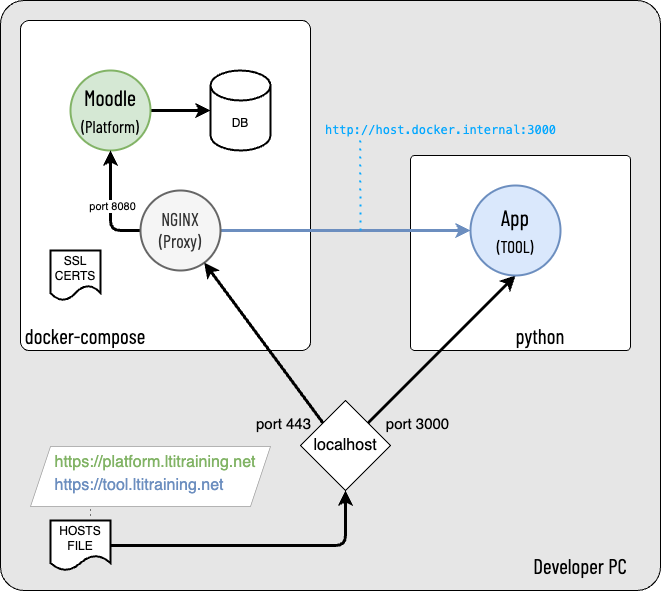
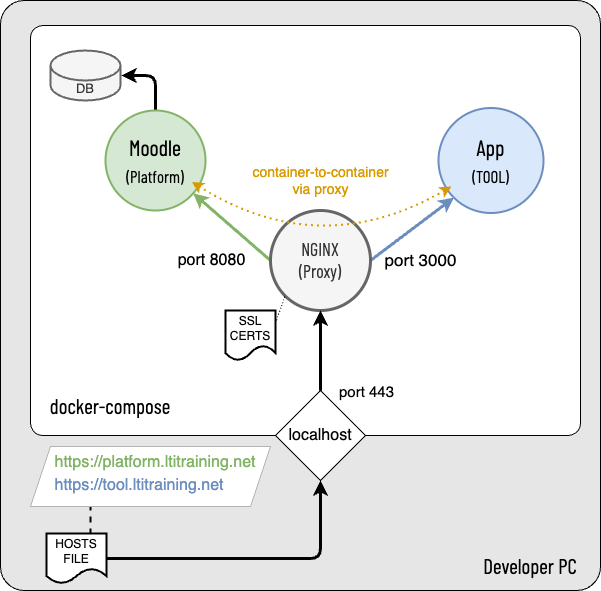
simplified setup - stripped out all tje python dependencies and moved it to docker.

diff --git a/docs/activity1.md b/docs/activity1.md
@@ -13,6 +13,8 @@ By the end of this activity, you will have cloned the workshop's git repository 
 - Docker and Docker Compose installed on your machine.
 - Access to modify the local `/etc/hosts` file (administrator privileges may be required).
 
+See the [Guide for setting up the prerequisites](activity0.md) if you need further assistance.
+
 ---
 
 ### **Steps to Follow:**
@@ -35,34 +37,7 @@ Once the repository is cloned, navigate to the `environment/` directory where th
 cd environment
 ```
 
-#### 3. **Check the Docker Compose File**
-
-In this step, take a look at the `docker-compose.yml` file, which defines the services for running Moodle, the proxy server, and the database. Open it in your favorite text editor (e.g., `nano`, `vim`, or a code editor like VS Code).
-
-```
-Open docker-compose.yml in your Code Editor
-```
-
-Ensure that the file includes services for:
-- **Moodle** (Moodle Docker image)
-- **MariaDB** (Database service)
-- **Nginx** (Proxy server with SSL certificates)
-
-You should also see the environment variables set for Moodle and MariaDB in this file.
-
-**Note:**  This is just a local development project and is not production-ready.  Please do not use this in production.
-
-#### 4. **Verify the Nginx Configuration**
-
-Open and review the `nginx.conf` file to confirm that it correctly handles SSL for `platform.ltitraining.net` and `tool.ltitraining.net`.
-
-```
-Review nginx.conf in your code editor
-```
-
-This file includes SSL configurations for the Moodle platform and the LTI tool, routing traffic via the reverse proxy.
-
-#### 5. **Update the Local Hosts File**
+#### 3. **Update the Local Hosts File**
 
 In this setup, we will use 2 real domains with real (browser-trusted) SSL certificates.  We will configure the routing on your PC to route these domains locally within your machine.  This allows us to focus on LTI development without the complexities of browser security getting in the way.
 
@@ -96,42 +71,23 @@ To ensure that the domains `platform.ltitraining.net` and `tool.ltitraining.net`
 
 This step ensures that your browser correctly resolves these domains to your local machine when you access them.
 
-#### 6. **Start the Docker Environment**
+#### 4. **Start the Docker Environment**
 
 Once you’ve reviewed the configurations, start the Docker containers using Docker Compose. This will spin up Moodle, MariaDB, and Nginx services.
 
 ```bash
-docker-compose up -d
+docker-compose up --build
 ```
 
 This command will:
 - Build and start all the services defined in the `docker-compose.yml` file.
-- Run the services in detached mode (`-d`), so they run in the background.
+- Configures and runs the services 
+- Please note:  This may take a few mins to complete the first time.
 
-#### 7. **Check the Running Containers**
 
-To verify that everything is running correctly, check the status of the Docker containers.
+#### 5. **Run through the Checklist**
 
-```bash
-docker ps
-```
-
-You should see the Moodle, MariaDB, and Nginx services running.
-
-#### 8. **Access Moodle**
-
-Open your browser and access Moodle using the following URL:
-
-```
-https://platform.ltitraining.net
-```
-
-If everything is set up correctly, you should see the Moodle login page or the platform's homepage.
-
-You should be able to login using the default username and password;
-
-- user:  user
-- password: bitnami
+To verify that everything is running correctly, complete the checks the [Checklist](checklist.md)
 
 ---
 
@@ -151,6 +107,13 @@ You should be able to login using the default username and password;
 
 ---
 
+### **Questions &  Common Tasks:**
+
+To understand how to start, stop, reset, clean up,  details are outlined in the [Common Tasks Document](common_tasks.md)
+
+---
+
 ### **Activity Summary:**
 You have now cloned the repository, updated your hosts file, started the Docker environment, and accessed Moodle via the `platform.ltitraining.net` domain. You are ready to move on to the next activity, where you will configure the Moodle LTI tool and begin developing.
+
 

diff --git a/docs/checklist.md b/docs/checklist.md
@@ -20,18 +20,31 @@ docker-compose ps
 You should see the status as `Up` for the Moodle, MariaDB, and Nginx containers. For example:
 
 ```bash
-    Name                Command          State             Ports
----------------------------------------------------------------------
-nginx-proxy   /docker-entrypoint.sh ngin ...   Up      0.0.0.0:443->443/tcp
-mariadb       /opt/bitnami/scripts/mari ...   Up      3306/tcp
-platform.dev  /opt/bitnami/scripts/mood ...   Up      8080/tcp
+CONTAINER ID   IMAGE                  COMMAND                  CREATED       STATUS       PORTS             
+a9e9b803832b   environment-tool       "/usr/src/app/entryp…"   5 hours ago   Up 5 hours   0.0.0.0:3000->...
+ee39addd9116   nginx:alpine           "/docker-entrypoint.…"   7 hours ago   Up 7 hours   80/tcp, 0.0.0.0:443->...
+f6f32f1edc97   bitnami/moodle:4.5.0   "/opt/bitnami/script…"   7 hours ago   Up 7 hours   0.0.0.0:8080->...
+ec1c0138c758   bitnami/mariadb:10.6   "/opt/bitnami/script…"   7 hours ago   Up 7 hours   3306...
 ```
 
 If the containers are not running, use `docker-compose up` to start them.
 
 ---
+### **Test 2: Access Test Flask Application**
 
-### **Test 2: Access Moodle**
+1. Open your browser.
+2. Navigate to the following URL:
+
+```
+https://tool.ltitraining.net
+```
+
+You should see a success message from the Flask Application page. If the page doesn’t load, double-check that the containers are running, and ensure that your `/etc/hosts` file is correctly configured to resolve `tool.ltitraining.net` to `127.0.0.1`.
+
+
+---
+
+### **Test 3: Access Moodle**
 
 1. Open your browser.
 2. Navigate to the following URL:
@@ -42,46 +55,13 @@ https://platform.ltitraining.net
 
 You should see the Moodle login page. If the page doesn’t load, double-check that the containers are running, and ensure that your `/etc/hosts` file is correctly configured to resolve `platform.ltitraining.net` to `127.0.0.1`.
 
----
-
-## **2. Python and Pipenv Environment**
-
-### **Test 3: Verify Python Environment**
-
-1. In the terminal or PowerShell, activate the Python environment with Pipenv:
-
-```bash
-pipenv shell
-```
-
-2. Once inside the environment, verify that Python is working by running:
-
-```bash
-python --version
-```
-
-This should return the Python version, confirming that the environment is correctly set up.
-
----
-
-### **Test 4: Run the Python Code**
-
-Navigate to the `exercise4/` directory and run the Flask app (or another Python script) to ensure everything is working:
-
-```bash
-cd exercise1
-python app.py
-```
-
-You should see the Flask app running, and it will provide a URL (typically `http://127.0.0.1:3000/`) where you can access the app in your browser.
 
 ---
 
 
 ## **Summary of Quick Tests**:
 - **Test 1**: Check Docker container status.
-- **Test 2**: Access Moodle via `https://platform.ltitraining.net`.
-- **Test 3**: Verify the Python environment.
-- **Test 4**: Run the Python Flask app.
+- **Test 2**: Access Test Application via `https://tool.ltitraining.net`.
+- **Test 3**: Access Moodle via `https://platform.ltitraining.net`.
 
 Running through these tests will ensure that everything is correctly set up and functioning for the workshop.

diff --git a/docs/activity0.md b/docs/activity0.md
@@ -5,13 +5,12 @@ Before starting the workshop, make sure you have all the necessary software inst
 ## **Prerequisites**
 
 1. **Docker Desktop**
-2. **Python** with `pipenv`
-3. **Code Editor** (VS Code recommended)
-4. **Administrator Access** (to update the hosts file)
+2. **Code Editor** (VS Code recommended)
+3. **Administrator Access** (to update the hosts file)
 
 ### Optional
 
-This project uses TailwindCSS to the visual design.  If you wish to modify the user experience then you may need;
+This project uses TailwindCSS to the visual design.  If you wish to modify the UI then you may need;
 1. **Node.js** (to run `npx`)
 2. **TailwindCSS CLI**
 
@@ -44,39 +43,7 @@ docker --version
 
 ---
 
-## **2. Python with Pipenv**
-
-Pipenv is used to manage Python environments and dependencies.
-
-### **macOS Installation**:
-1. Install Python 3 from [python.org](https://www.python.org/downloads/).
-2. Open a terminal and install Pipenv:
-
-```bash
-brew install pipenv
-```
-
-If you don’t have Homebrew installed, you can install it from [brew.sh](https://brew.sh/).
-
-### **Windows Installation**:
-1. Download Python 3 from [python.org](https://www.python.org/downloads/).
-2. During installation, ensure that **"Add Python to PATH"** is checked.
-3. Open PowerShell and install Pipenv:
-
-```bash
-pip install --user pipenv
-```
-
-### **Verify Installation**:
-To check if Pipenv is installed correctly, run:
-
-```bash
-pipenv --version
-```
-
----
-
-## **3. Code Editor**
+## **2. Code Editor**
 
 Bring your favorite code editor to the workshop. We recommend using **Visual Studio Code (VS Code)** for the best experience.
 
@@ -87,7 +54,7 @@ VS Code supports extensions for both Python and Node.js development, making it a
 
 ---
 
-## **4. Administrator Access to Update Hosts File**
+## **3. Administrator Access to Update Hosts File**
 
 You will need administrator access to modify the `hosts` file on your machine. This is necessary to map the workshop domains (`platform.ltitraining.net` and `tool.ltitraining.net`) to your local environment.
 
@@ -112,7 +79,15 @@ Make sure to add the following lines to the `hosts` file:
 
 ---
 
-## **5. Node.js (with npx)**
+If the above files are installed,  You should be all set for the workshop.
+
+
+# Optional Dependencies
+
+The following steps are not necessary for the workshop,  but they might be useful in development if you want to change the CSS in the example projects;
+
+
+## **1. Node.js (with npx)**
 
 Node.js is required to run JavaScript-based tools like `npx`.
 
@@ -130,7 +105,7 @@ npx --version
 
 ---
 
-## **6. TailwindCSS CLI**
+## **2. TailwindCSS CLI**
 
 TailwindCSS is a utility-first CSS framework which some of the samples use. You may need its CLI for the workshop..
 
@@ -155,7 +130,6 @@ tailwindcss --version
 
 Ensure that the following tools are installed:
 - Docker Desktop
-- Python 3 with Pipenv
 - A code editor (VS Code recommended)
 - Administrator access to modify the hosts file
 
